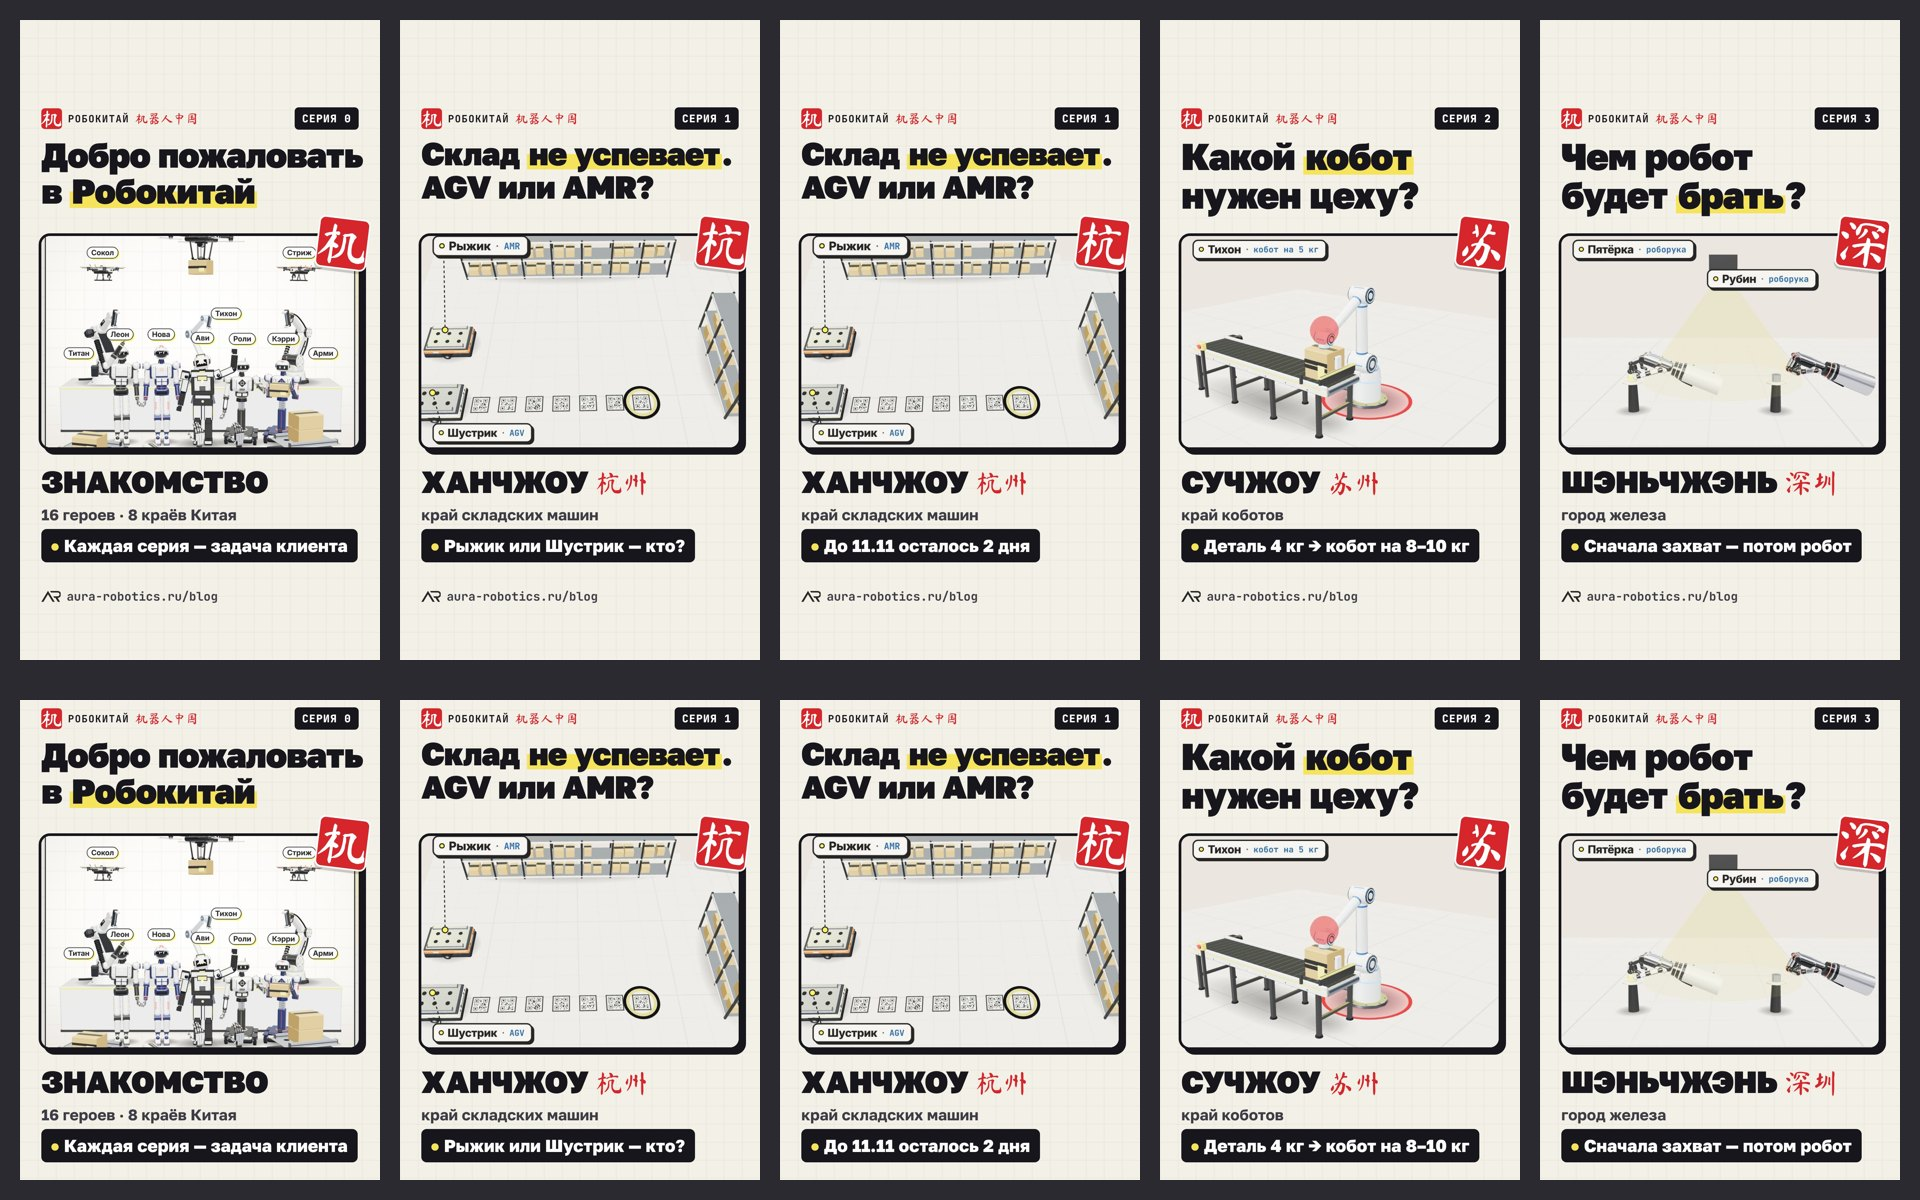
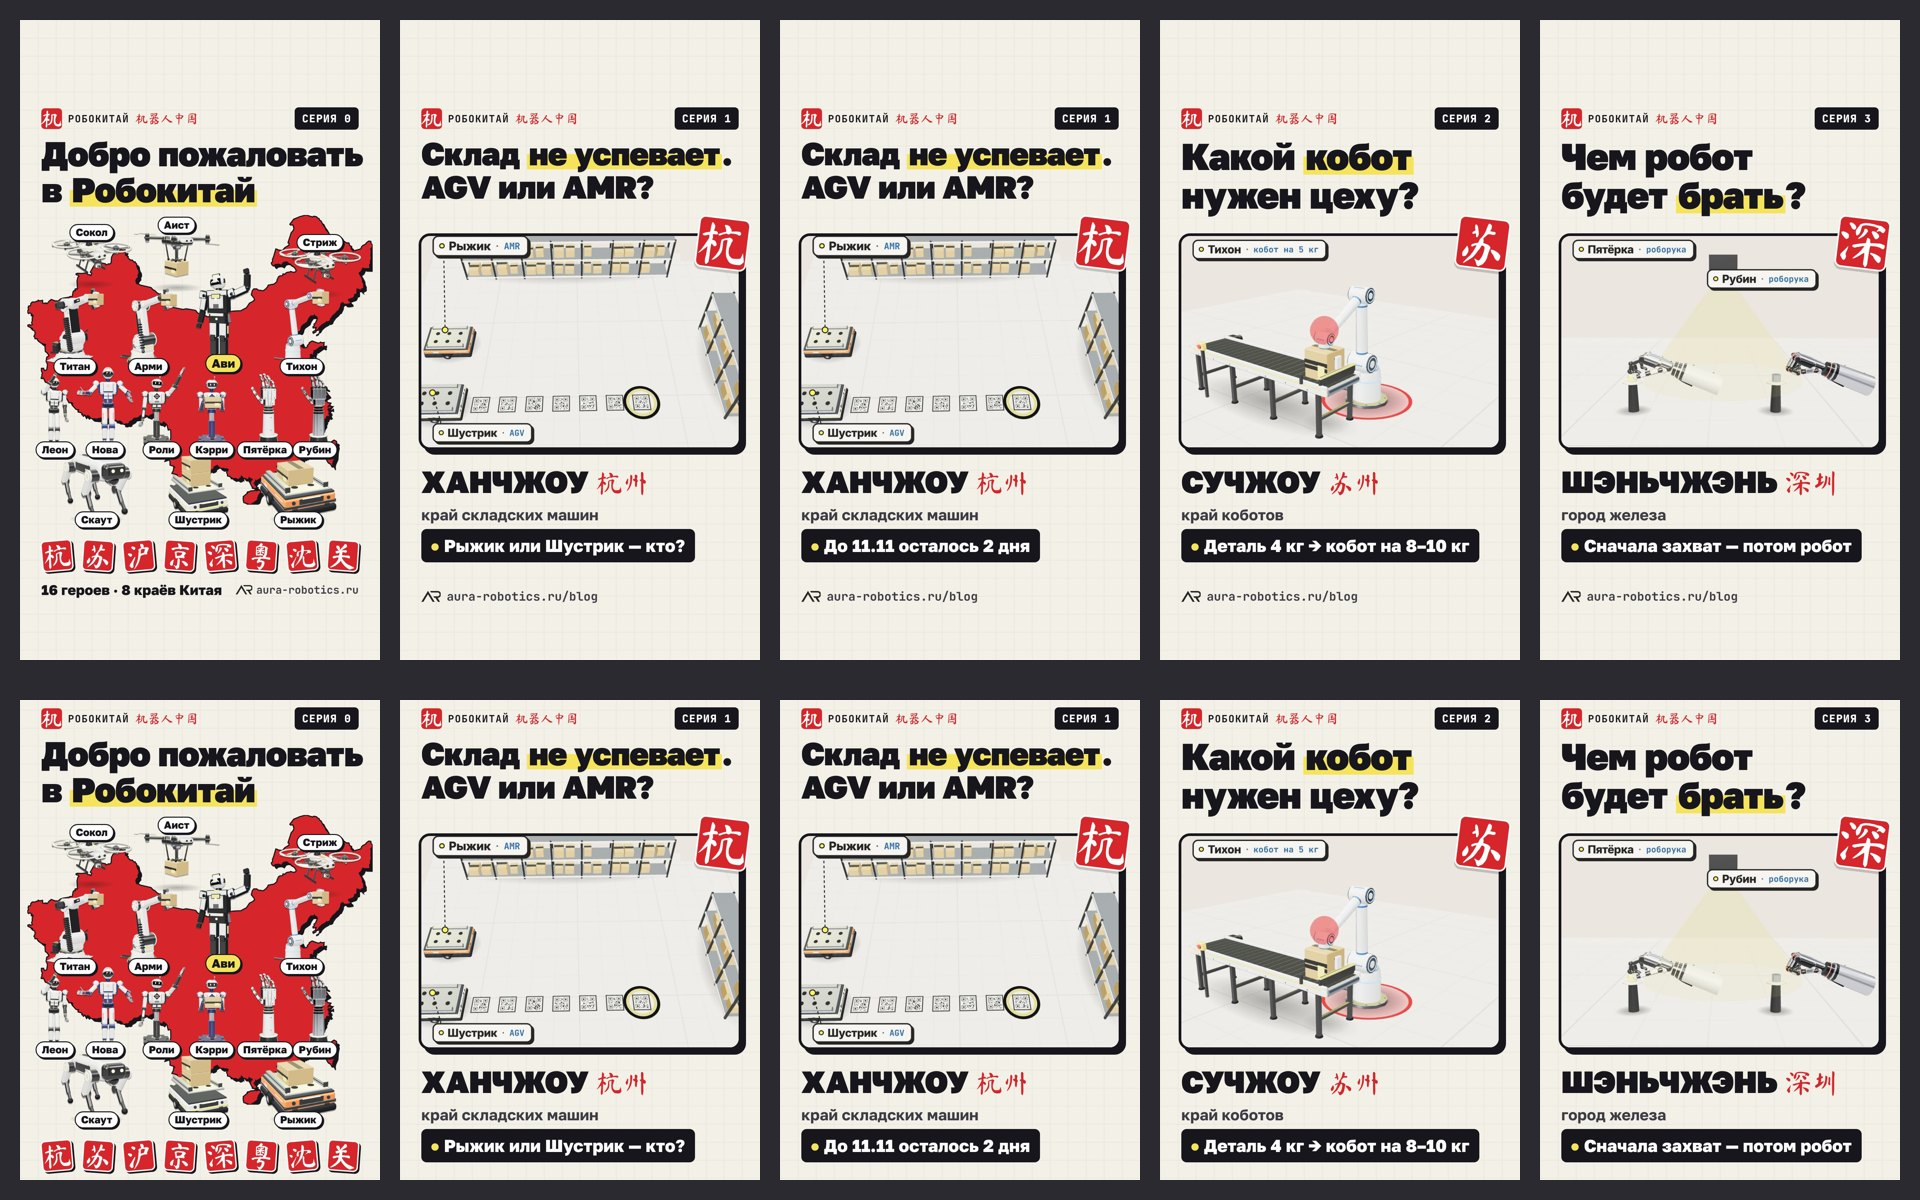
Робокитай: новая обложка Серии 0 — карта Китая и все 16 героев
Пользователь: «обложка для нулевой серии не очень красивая, переделай её так, чтобы было
понятно, что это Китай, и чтобы всех персонажей было видно». Красная карта Китая из
chinaMap.ts, все 16 героев целиком (вырезки из портретов AuraCast), таблички имён поверх,
ряд печатей 8 краёв.

Claude-Session: https://claude.ai/code/session_01GWbvgKxue3PjjbbHEP4BVJ

Changed region(s): [[0.0, 0.1233, 0.2188, 0.5242], [0.0, 0.6167, 0.2188, 0.9867]]

diff --git a/reels-studio/CLAUDE.md b/reels-studio/CLAUDE.md
@@ -753,7 +753,11 @@ Noto Sans SC через `loadCjk`), роль, скин; кадр 17 — «Ком
   (`pos` — какую часть кадра показать, имена героев на плашках остаются в кадре); печать края (杭 苏 深, у трейлера 机); город + `zh` + строка
   края; чёрная плашка `note` — факт из статьи или крючок; внизу AR и `aura-robotics.ru/blog`. Кадры — `source-videos/обложки/robokitai/`:
   панель 3D из кадра ролика (`crop 56,408,1024,1258`), кружок начальника цеха справа сверху закрашен цветом стены (строка за строкой с x 64);
-  у трейлера — групповое фото `17-team.png`. У серии 1 две обложки: v1 — «Рыжик или Шустрик — кто?», v2 — «До 11.11 осталось 2 дня» (07.11.2026). Текст крупный для телефона: строка края 46 px, плашка 52 px, адрес 36 px (решение пользователя 06.11.2026: «слишком мелко, чтобы прочитать с телефона»).
+  у трейлера (Серия 0) своя раскладка `kind: 'map'` (07.11.2026, пользователь: «не очень красивая… чтобы было понятно, что это Китай, и чтобы всех
+  персонажей было видно»): красная карта Китая (`CHINA_PATHS` из `chinaMap.ts`) с жёсткой тенью, на ней все 16 героев целиком — вырезки
+  `source-videos/обложки/robokitai/герои/NN-*.png` (`scripts/cutout.py <портрет> <вырезка> --crop 64,102,952,906` из `aura-персонажи/NN-*.png`;
+  у Ави дыры в маске закрыты заливкой изнутри контура), места героев — `CAST0` (центр x, низ y, высота; дроны «летят»), таблички имён —
+  отдельным слоем поверх всех, у Ави — на лимонном маркере; внизу ряд печатей 8 краёв и «16 героев · 8 краёв Китая». У серии 1 две обложки: v1 — «Рыжик или Шустрик — кто?», v2 — «До 11.11 осталось 2 дня» (07.11.2026). Текст крупный для телефона: строка края 46 px, плашка 52 px, адрес 36 px (решение пользователя 06.11.2026: «слишком мелко, чтобы прочитать с телефона»).
 - **Манхуа ostapdotcenko** (`OD`): жёлтый растр и лучи, кикер на чернильной ленте, заголовок Unbounded 900 (вторая строка красная с тенью,
   каждая строка подгоняется в ширину), облачко RU + кисть ZH, вырезка Остапа, три чернильные плашки-причины, печать 多 справа на y 1530,
   адрес внизу; у «多 NEWS» внизу стена из 20 настоящих обложек статей блога (ч/б, под жёлтым переходом).
